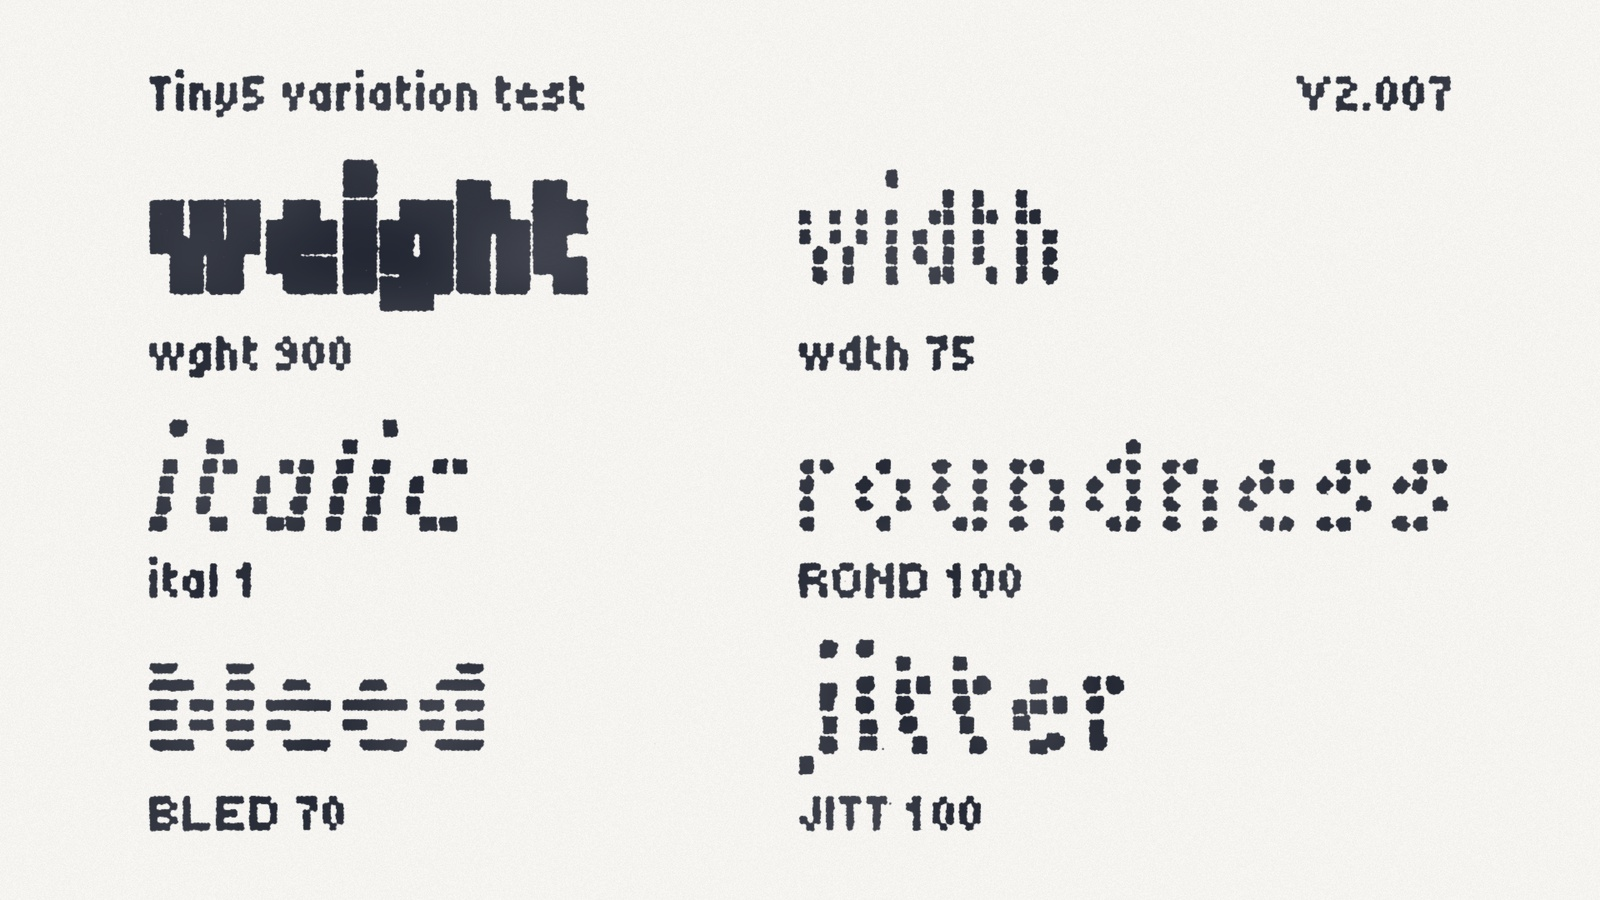
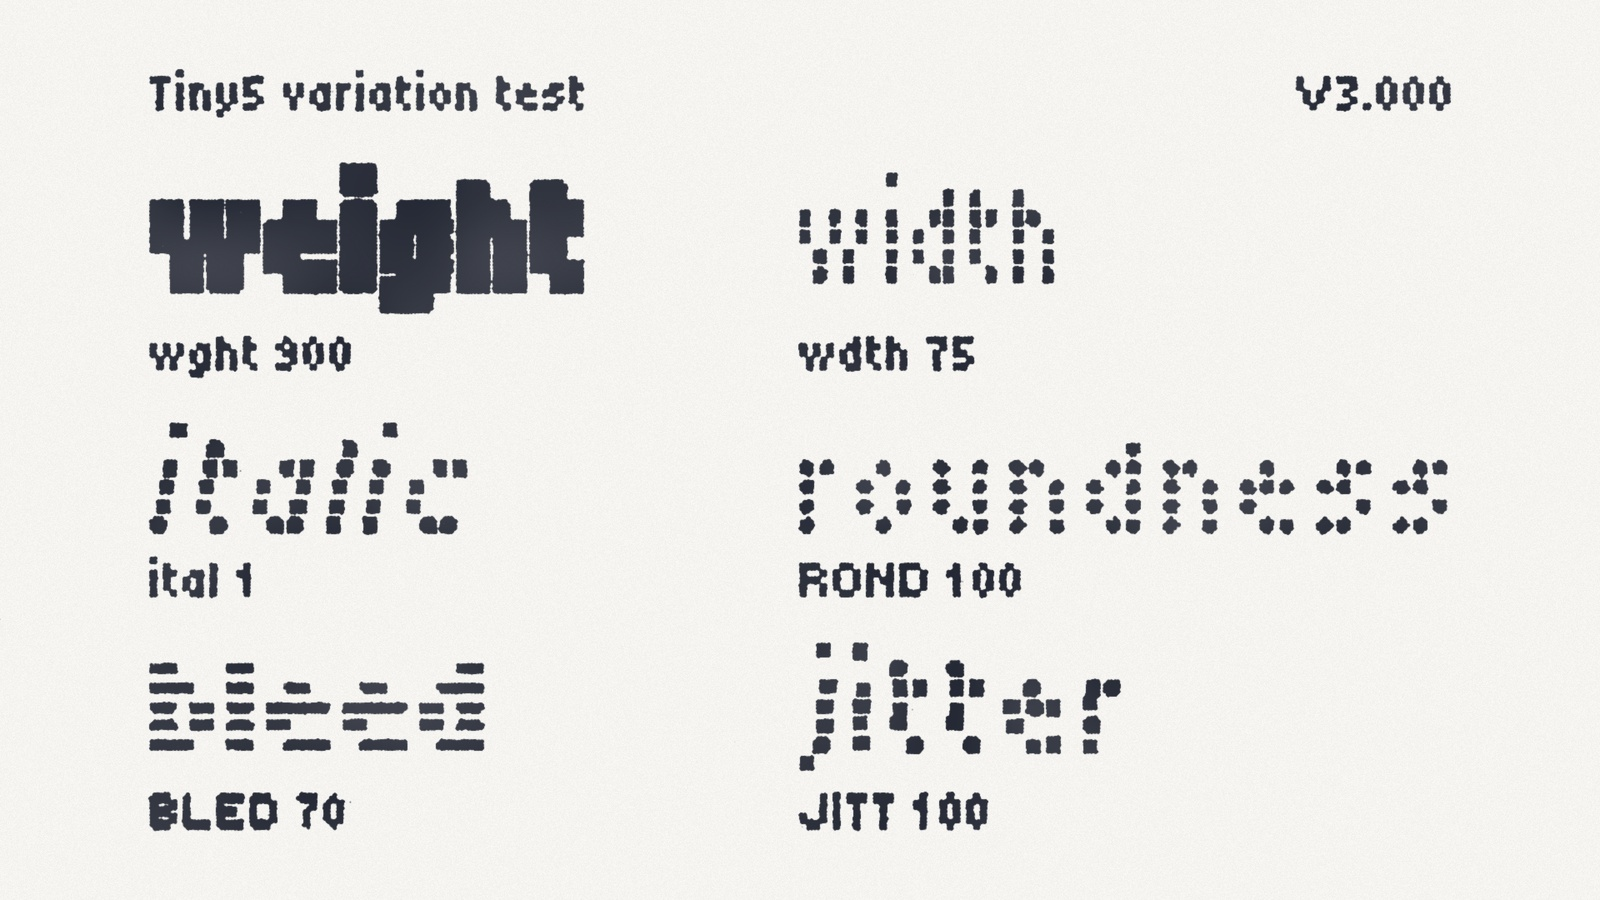
3.000

diff --git a/documentation/ARTICLE-Duo.en_us.html b/documentation/ARTICLE-Duo.en_us.html
@@ -1,6 +1,6 @@
 <p><b>Tiny5 Duo</b> is the bold companion to <a href="https://fonts.google.com/specimen/Tiny5">Tiny5</a>, a compact 5-pixel variable font that captures the essence of 1980s–90s digital minimalism. Where Tiny5 draws every stroke one pixel wide, Tiny5 Duo doubles its vertical stems, giving the same essential letterforms a sturdier, more emphatic presence—ideal for headlines, labels and anywhere a little extra weight helps the text hold its own.</p>
 
-<p>Like Tiny5, it features six variable axes — <b>Weight, Width, Italic, Roundness, Bleed and Jitter</b> — giving you precise control over its look: from crisp geometric shapes and sharp LCD edges to the soft glow of CRT monitors and the subtle ink spread of dot-matrix printers. Set alongside Tiny5, it provides a natural bold counterpart that stays true to the pixel-perfect aesthetic.</p>
+<p>Like Tiny5, it features six variable axes — <b>Weight, Width, Italic, Roundness, Bleed and Jitter</b> — giving you precise control over its look: from crisp geometric shapes and sharp LCD edges to the soft glow of CRT monitors and the subtle ink spread of dot-matrix printers. Set alongside Tiny5, it provides a natural bold counterpart that stays true to the pixel-perfect aesthetic. The family also has a monospaced companion, <a href="https://fonts.google.com/specimen/Tiny5+Mono"><b>Tiny5 Mono</b></a>, which sets the same letterforms in a fixed cell for code editors, terminals and text-mode interfaces.</p>
 
 <p>Tiny5 Duo excels at evoking retro-futurism, constrained-tech nostalgia, and clean minimalism. It's especially well-suited for:</p>
 
@@ -11,11 +11,13 @@
   <li>Branding with a distinct 8/16-bit or vintage electronics vibe</li>
 </ul>
 
-<p>Tiny5 Duo shares the broad language support of Tiny5, covering <b>Latin, Greek, Cyrillic and Armenian scripts</b> across <b>974 languages</b> and <b>1,942 glyphs</b>.</p>
+<p>Tiny5 Duo shares the broad language support of Tiny5, covering <b>Latin, Greek, Cyrillic and Armenian scripts</b> across <b>974 languages</b>. Like Tiny5, it goes well beyond them with IPA, mathematical operators, arrows, geometric shapes, dingbats, Braille, block elements and the sextants and much of <b>Symbols for Legacy Computing</b>, for a total of <b>4,094 glyphs</b>. It also has <b>small caps</b> for Latin and Cyrillic.</p>
 
 <p>For pixel-perfect results, set the font size to <b>increments of 6 pt (8 px)</b>.</p>
 
-<p>To browse all its glyphs and try the variable axes, visit <a href="https://gissio.github.io/font_Tiny5">gissio.github.io/font_Tiny5</a>.</p>
+<p>All three fonts are also available in <a href="https://en.wikipedia.org/wiki/Glyph_Bitmap_Distribution_Format">BDF</a> format for seamless integration with the <a href="https://github.com/Gissio/mcu-renderer">mcu-renderer</a>, <a href="https://github.com/olikraus/u8g2">u8g2</a> and <a href="https://github.com/Bodmer/TFT_eSPI">TFT_eSPI</a> libraries.</p>
+
+<p>To browse all its glyphs, visit <a href="https://gissio.github.io/font_Tiny5">gissio.github.io/font_Tiny5</a>.</p>
 
 <p>To contribute to the project, visit <a href="https://github.com/Gissio/font_Tiny5">github.com/Gissio/font_Tiny5</a>.</p>
 

diff --git a/documentation/ARTICLE.en_us.html b/documentation/ARTICLE.en_us.html
@@ -2,22 +2,24 @@
 
 <p>It features six variable axes — <b>Weight, Width, Italic, Roundness, Bleed and Jitter</b> — giving you precise control over its look: from crisp geometric shapes and sharp LCD edges to the soft glow of CRT monitors and the subtle ink spread of dot-matrix printers.</p>
 
-<p>Tiny5 is part of a family that also includes <a href="https://fonts.google.com/specimen/Tiny5+Duo"><b>Tiny5 Duo</b></a>. Where Tiny5 draws every stroke one pixel wide, Tiny5 Duo uses two-pixel stems for bolder emphasis, while sharing the same letterforms, variable axes and character set. Used together, they give you a light and a heavy voice that stay true to the pixel-perfect aesthetic.</p>
+<p>Tiny5 is part of a family that also includes <a href="https://fonts.google.com/specimen/Tiny5+Duo"><b>Tiny5 Duo</b></a> and <a href="https://github.com/Gissio/font_Tiny5Mono"><b>Tiny5 Mono</b></a>. Where Tiny5 draws every stroke one pixel wide, Tiny5 Duo uses two-pixel stems for bolder emphasis, while sharing the same letterforms, variable axes and language support. Tiny5 Mono sets the same letterforms in a fixed cell for code editors, terminals and text-mode interfaces. Used together, they give you a light, a heavy and a monospaced voice that stay true to the pixel-perfect aesthetic.</p>
 
 <p>Tiny5 excels at evoking retro-futurism, constrained-tech nostalgia, and clean minimalism. It's especially well-suited for:</p>
 
 <ul>
-  <li>Pixel art and lo-fi games</li>
+  <li>Pixel art and lo-fi games, with Tiny5 Duo for titles, headings and HUDs</li>
   <li>Terminal-style interfaces and embedded systems</li>
   <li>Micro-typography in UI/UX design</li>
   <li>Branding with a distinct 8/16-bit or vintage electronics vibe</li>
 </ul>
 
-<p>The family provides broad language support, covering <b>Latin, Greek, Cyrillic and Armenian scripts</b> across <b>974 languages</b> and <b>1,942 glyphs</b>.</p>
+<p>The family provides broad language support, covering <b>Latin, Greek, Cyrillic and Armenian scripts</b> across <b>974 languages</b>. Tiny5 goes well beyond them with IPA, mathematical operators, arrows, geometric shapes, dingbats, Braille, block elements and the sextants and much of <b>Symbols for Legacy Computing</b>, for a total of <b>4,094 glyphs</b>. It also has <b>small caps</b> for Latin and Cyrillic.</p>
 
 <p>For pixel-perfect results, set the font size to <b>increments of 6 pt (8 px)</b>.</p>
 
-<p>To browse all its glyphs and try the variable axes, visit <a href="https://gissio.github.io/font_Tiny5">gissio.github.io/font_Tiny5</a>.</p>
+<p>All three fonts are also available in <a href="https://en.wikipedia.org/wiki/Glyph_Bitmap_Distribution_Format">BDF</a> format for seamless integration with the <a href="https://github.com/Gissio/mcu-renderer">mcu-renderer</a>, <a href="https://github.com/olikraus/u8g2">u8g2</a> and <a href="https://github.com/Bodmer/TFT_eSPI">TFT_eSPI</a> libraries.</p>
+
+<p>To browse all its glyphs, visit <a href="https://gissio.github.io/font_Tiny5">gissio.github.io/font_Tiny5</a>.</p>
 
 <p>To contribute to the project, visit <a href="https://github.com/Gissio/font_Tiny5">github.com/Gissio/font_Tiny5</a>.</p>
 

diff --git a/documentation/build-specimen.py b/documentation/build-specimen.py
@@ -39,7 +39,7 @@ TINY5_DUO_ITALIC_PATH = ROOT_PATH / "fonts/variable/Tiny5Duo-Italic[BLED,JITT,RO
 
 # Font version, as the devices display it; keep in sync with the font's
 # version (name ID 5)
-VERSION = "V2.007"
+VERSION = "V3.000"
 
 # Tiny5 draws one font pixel per 8 font units, and is 5 font pixels tall
 FONT_PIXEL_SIZE = 8
@@ -1173,7 +1173,7 @@ TERMINAL_LINES = [
     "$ fc-query --brief Tiny5",
     "    family: \"Tiny5\"",
     "    version: " + VERSION,
-    "    glyphs: 1942",
+    "    glyphs: 4094",
     "    languages: 974",
     "    axes: weight width italic round bleed jitter",
     "    pixel-perfect render: multiples of 6 pt (8 px)",

diff --git a/README.md b/README.md
@@ -6,14 +6,15 @@
 
 **Tiny5** is a family of compact 5-pixel variable fonts that capture the essence of 1980s–90s digital minimalism. Inspired by the graphing calculators and pocket gadgets of the era, they distill letterforms to their absolute essentials—proving that even at just five pixels tall, clarity, charm, and personality can thrive together.
 
-The family has two members, sharing the same letterforms, variable axes and character set:
+The family has three members, sharing the same letterforms, variable axes and language support:
 
 - [**Tiny5**](https://fonts.google.com/specimen/Tiny5) draws every stroke one pixel wide—the text face of the family, at home in body copy and dense readouts.
 - [**Tiny5 Duo**](https://fonts.google.com/specimen/Tiny5+Duo) doubles the vertical stems, giving the same letterforms a sturdier, more emphatic presence—ideal for headlines, labels and anywhere a little extra weight helps the text hold its own.
+- [**Tiny5 Mono**](https://github.com/Gissio/font_Tiny5Mono) sets the same letterforms in a fixed cell for code editors, terminals and text-mode interfaces—its box-drawing and block characters fill the whole cell.
 
-Used together, they give you a light and a heavy voice that stay true to the pixel-perfect aesthetic.
+Used together, they give you a light, a heavy and a monospaced voice that stay true to the pixel-perfect aesthetic.
 
-Both fonts feature six variable axes — **Weight, Width, Italic, Roundness, Bleed and Jitter** — giving you precise control over their look: from crisp geometric shapes and sharp LCD edges to the soft glow of CRT monitors and the subtle ink spread of dot-matrix printers.
+All three fonts feature six variable axes — **Weight, Width, Italic, Roundness, Bleed and Jitter** — giving you precise control over their look: from crisp geometric shapes and sharp LCD edges to the soft glow of CRT monitors and the subtle ink spread of dot-matrix printers.
 
 The family excels at evoking retro-futurism, constrained-tech nostalgia, and clean minimalism. It's especially well-suited for:
 
@@ -26,7 +27,7 @@ The family provides broad language support, covering **Latin, Greek, Cyrillic an
 
 For pixel-perfect results, set the font size to **increments of 6 pt (8 px)**.
 
-Both fonts are also available in [BDF](https://en.wikipedia.org/wiki/Glyph_Bitmap_Distribution_Format) format for seamless integration with the [mcu-renderer](https://github.com/Gissio/mcu-renderer), [u8g2](https://github.com/olikraus/u8g2) and [TFT_eSPI](https://github.com/Bodmer/TFT_eSPI) libraries.
+All three fonts are also available in [BDF](https://en.wikipedia.org/wiki/Glyph_Bitmap_Distribution_Format) format for seamless integration with the [mcu-renderer](https://github.com/Gissio/mcu-renderer), [u8g2](https://github.com/olikraus/u8g2) and [TFT_eSPI](https://github.com/Bodmer/TFT_eSPI) libraries.
 
 ![Tiny5 character ROM](documentation/tiny5-sample1.jpg)
 
